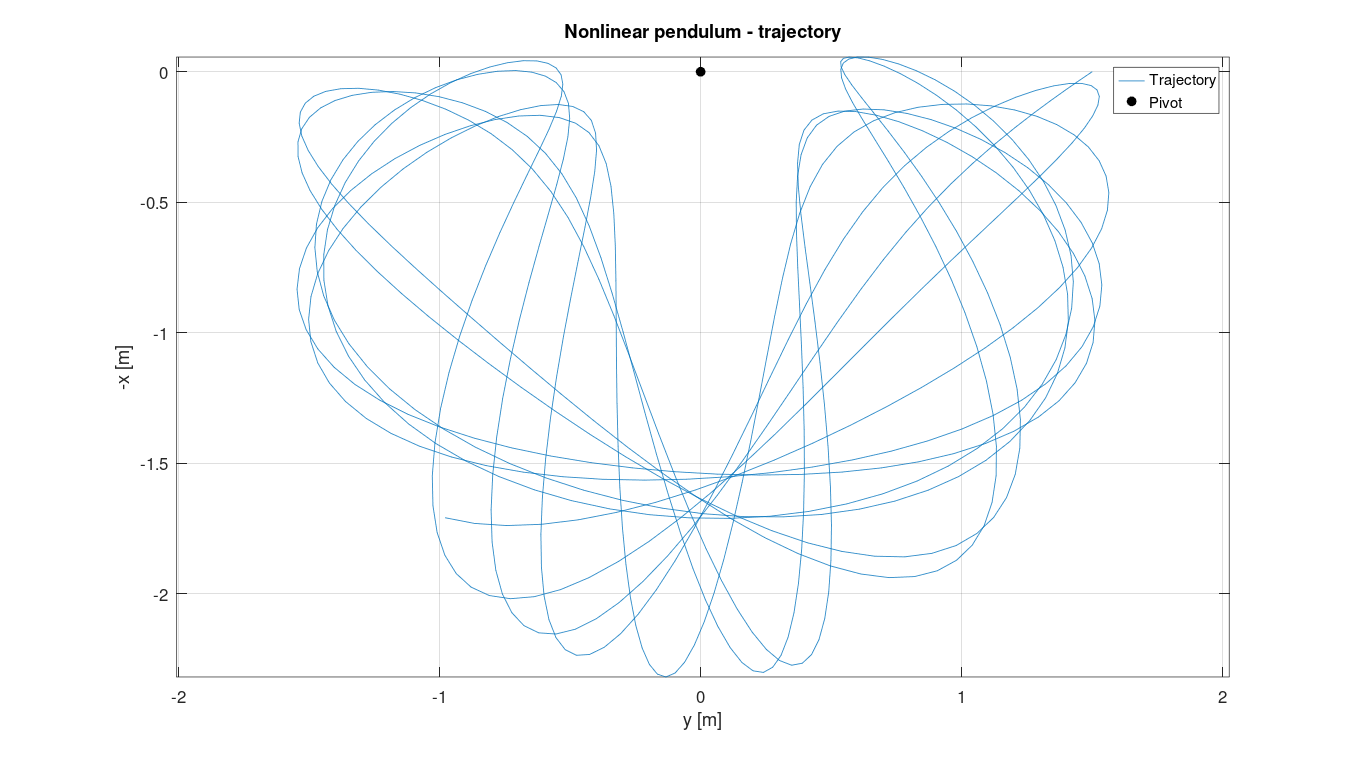
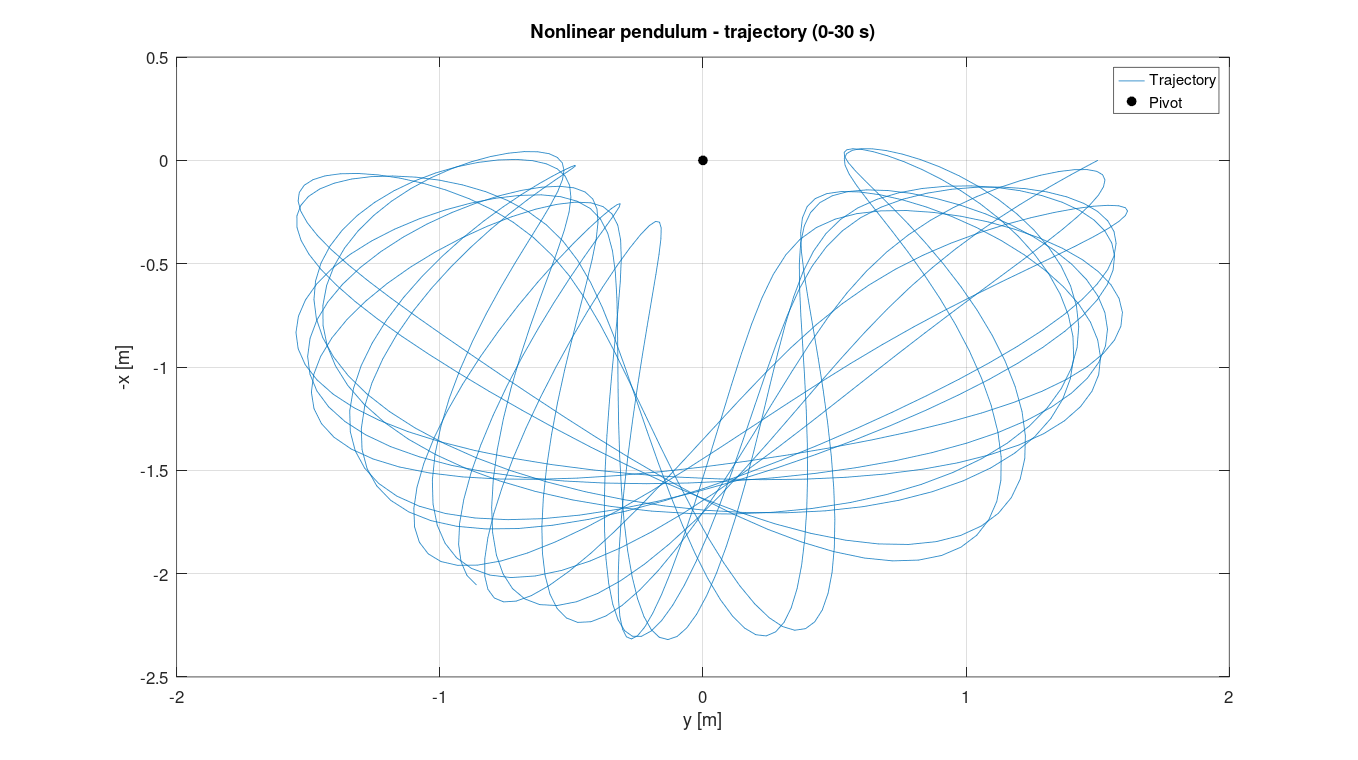
Pendulum: 30 s trajectory as in the book, FRF matrix figure

diff --git a/01_nonlinear-newmark-method/validation/validate_spring_pendulum.m b/01_nonlinear-newmark-method/validation/validate_spring_pendulum.m
@@ -45,15 +45,15 @@ K = @(u,v) [k*(L(u,v)-L0)*1/L(u,v)  0;
             0  k*(L(u,v)-L0)*1/L(u,v)];
 
 % Tangent stiffness dP/du
-Kt = @(u,v) [k*(1- L0/L(u,v)) + k*(L0*u^2)/(L(u,v))^3   k*((L0*u*v)/(L(u,v)^3));
-             k*((L0*u*v)/(L(u,v)^3))   k*(1- L0/L(u,v)) + k*(L0*v^2)/(L(u,v))^3];
+Kt= @(u,v)  [( k*(1- L0/L(u,v))+ (L0*u^2)/(L(u,v))^3 )  ( k*((L0*u*v)/(L(u,v)^3)) );
+             k*((L0*u*v)/(L(u,v)^3))   k*(1- L0/L(u,v)) + (L0*v^2)/(L(u,v))^3];
 
 u0 = 0; v0 = 1.5;
 u0p = 0; v0p = 0;
 
 gamma = .5; beta = 1/4;
 
-tf = 20;                          % Integration time
+tf = 30;                          % Integration time (book trajectory plot ~30 s)
 
 % Reference solution (ode45, tight tolerances)
 odefun = @(tt, z) [z(3:4); M\([-M(1,1)*g; 0] - K(z(1),z(2))*z(1:2))];
@@ -170,7 +170,7 @@ xlabel('Time [s]');
 ylabel('Displacement [m]');
 legend('x (vertical)','y (horizontal)');
 title('Nonlinear pendulum - displacement (\Deltat = 0.03 s)');
-ylim([-2 3])
+xlim([0 20]); ylim([-2 3])      % same window as the book
 
 figure(2);
 plot(t,-up(1,:)); hold on; grid on;
@@ -179,15 +179,16 @@ xlabel('Time [s]');
 ylabel('Velocity [m/s]');
 legend('dx/dt','dy/dt');
 title('Nonlinear pendulum - velocity (\Deltat = 0.03 s)');
+xlim([0 20])
 
 figure(3);
 plot(u(2,:),u(1,:)); hold on; grid on;
 plot(0, 0, 'ko', 'MarkerFaceColor', 'k');
-axis equal;
+xlim([-2 2]); ylim([-2.5 0.5])   % same axes as the book
 xlabel('y [m]');
 ylabel('-x [m]');
 legend('Trajectory', 'Pivot');
-title('Nonlinear pendulum - trajectory');
+title(sprintf('Nonlinear pendulum - trajectory (0-%g s)', tf));
 
 figure(4);
 plot(-u(1,:),-up(1,:)); hold on; grid on;

diff --git a/01_nonlinear-newmark-method/README.md b/01_nonlinear-newmark-method/README.md
@@ -146,16 +146,16 @@ $$K_t = k\left[\left(1-\frac{\ell_0}{\ell}\right)I + \frac{\ell_0}{\ell^3}\,\mat
 |---|---|
 | $m$, $k$, $g$, $\ell_0$ | 1 kg, 30 N/m, 10 m/s², 1 m |
 | Initial conditions | $x(0) = 0$, $y(0) = 1.5$ m, $\dot{x}(0) = \dot{y}(0) = 0$ |
-| Newmark | $\gamma = 1/2$, $\beta = 1/4$, $h = 0.03$ s, 20 s |
+| Newmark | $\gamma = 1/2$, $\beta = 1/4$, $h = 0.03$ s, 30 s |
 | Convergence | $\lVert r \rVert < mg \cdot 10^{-5}$ |
 
 ![spring pendulum displacement](figures/spring_pendulum_displacement.png)
-*Displacements with the book settings ($h = 0.03$ s).*
+*Displacements with the book settings ($h = 0.03$ s), shown over 0–20 s as in the book.*
 
 ![spring pendulum trajectory](figures/spring_pendulum_trajectory.png)
-*Trajectory of the mass (pivot at the origin).*
+*Trajectory of the mass over 0–30 s (pivot at the origin), the time span that reproduces the book's trajectory figure.*
 
-**Comparison with the book.** The displacement and velocity histories match, visually, the figures published by Géradin & Rixen for the same data (the book gives plots only, no numerical values, and its figures are not reproduced here for copyright reasons).
+**Comparison with the book.** The displacement and velocity histories match, visually, the figures published by Géradin & Rixen for the same data, curve by curve over 0–20 s. The book does not state the time span of its trajectory plot; with 30 s the trajectory reproduces it, including the end point and the narrow loops near the pivot. (The book gives plots only, no numerical values, and its figures are not reproduced here for copyright reasons.)
 
 **Quantitative check.** Since the book has no numbers to compare against, the script also compares the solution with a high-accuracy reference (`ode45`, RelTol 1e-10) and repeats it with smaller steps:
 
@@ -164,18 +164,18 @@ $$K_t = k\left[\left(1-\frac{\ell_0}{\ell}\right)I + \frac{\ell_0}{\ell^3}\,\mat
 
 | $\Delta t$ [s] | Max. error, 0–5 s [m] | Error > 0.1 m after | Max. energy drift | Newton it./step |
 |---|---|---|---|---|
-| 0.030 (book) | 2.3 × 10⁻² | 8.2 s | 1.16 % | 2.2 |
-| 0.010 | 2.5 × 10⁻³ | 13.0 s | 0.13 % | 2.0 |
-| 0.003 | 2.2 × 10⁻⁴ | 19.8 s | 0.012 % | 2.0 |
-| 0.001 | 2.5 × 10⁻⁵ | — | 0.001 % | 2.0 |
+| 0.030 (book) | 2.3 × 10⁻² | 8.2 s | 1.17 % | 3.7 |
+| 0.010 | 2.5 × 10⁻³ | 13.0 s | 0.13 % | 3.0 |
+| 0.003 | 2.2 × 10⁻⁴ | 19.8 s | 0.012 % | 3.0 |
+| 0.001 | 2.5 × 10⁻⁵ | 20.9 s | 0.001 % | 2.2 |
 
 ![spring pendulum convergence](figures/spring_pendulum_convergence.png)
 *Error vs. time step: observed order 2.01, the theoretical order of the trapezoidal rule.*
 
 - **Second-order convergence.** Each 3× reduction of $\Delta t$ divides the error by about 9 (observed order 2.01).
-- **Conservative scheme.** With $\gamma = 1/2$ there is no numerical damping: total energy stays within 1.2 % at the book's step and within 0.001 % at $\Delta t = 1$ ms.
-- **Fast Newton convergence.** About 2 iterations per step, as expected for a consistent tangent matrix.
-- **Long-time divergence is physical, not numerical.** The swing–stretch coupling makes the motion very sensitive to small phase errors, so any two solutions (even two reference solvers) drift apart after some seconds. A smaller $\Delta t$ only delays that point (8 s → 13 s → 20 s).
+- **Conservative scheme.** With $\gamma = 1/2$ there is no numerical damping: total energy stays within 1.2 % over 30 s at the book's step and within 0.001 % at $\Delta t = 1$ ms.
+- **Fast Newton convergence.** 2–4 iterations per step to reach $\lVert r \rVert < mg \cdot 10^{-5}$.
+- **Long-time divergence is physical, not numerical.** The swing–stretch coupling makes the motion very sensitive to small phase errors, so any two solutions (even two reference solvers) drift apart after some seconds. A smaller $\Delta t$ only delays that point (8 s → 13 s → 20 s → 21 s).
 
 ```matlab
 cd validation
